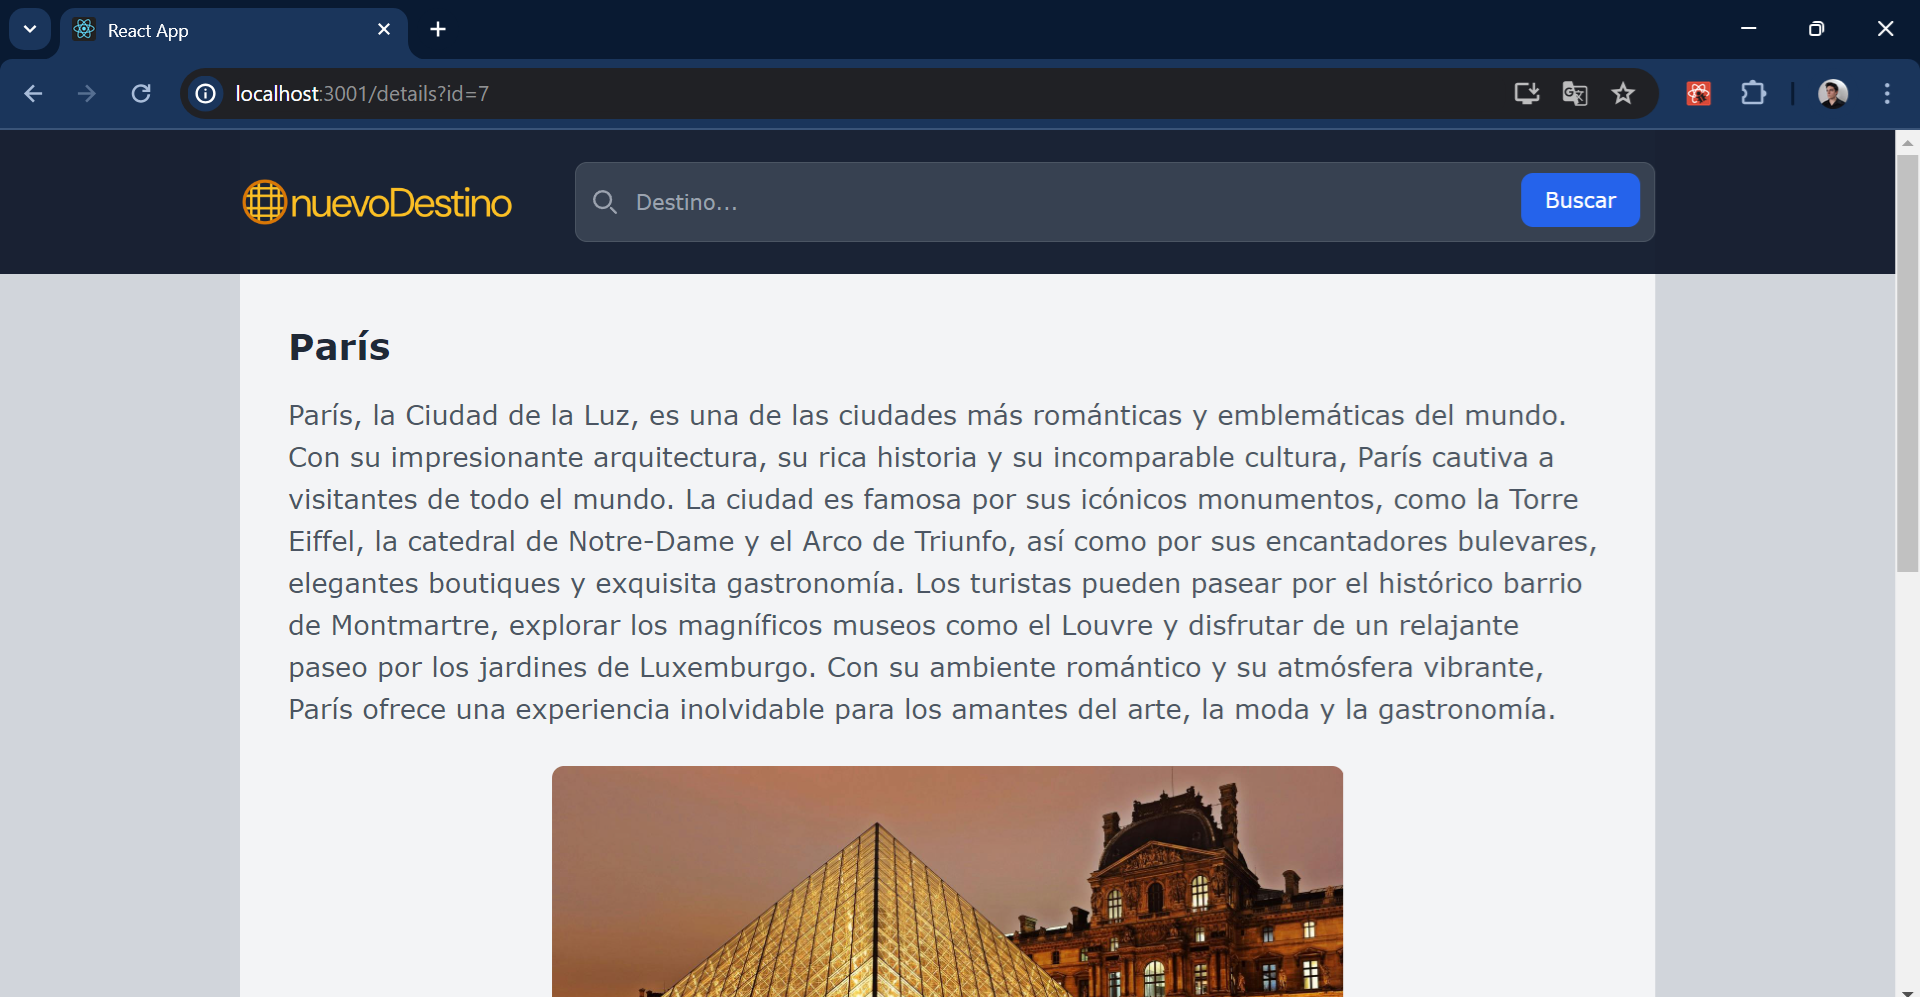
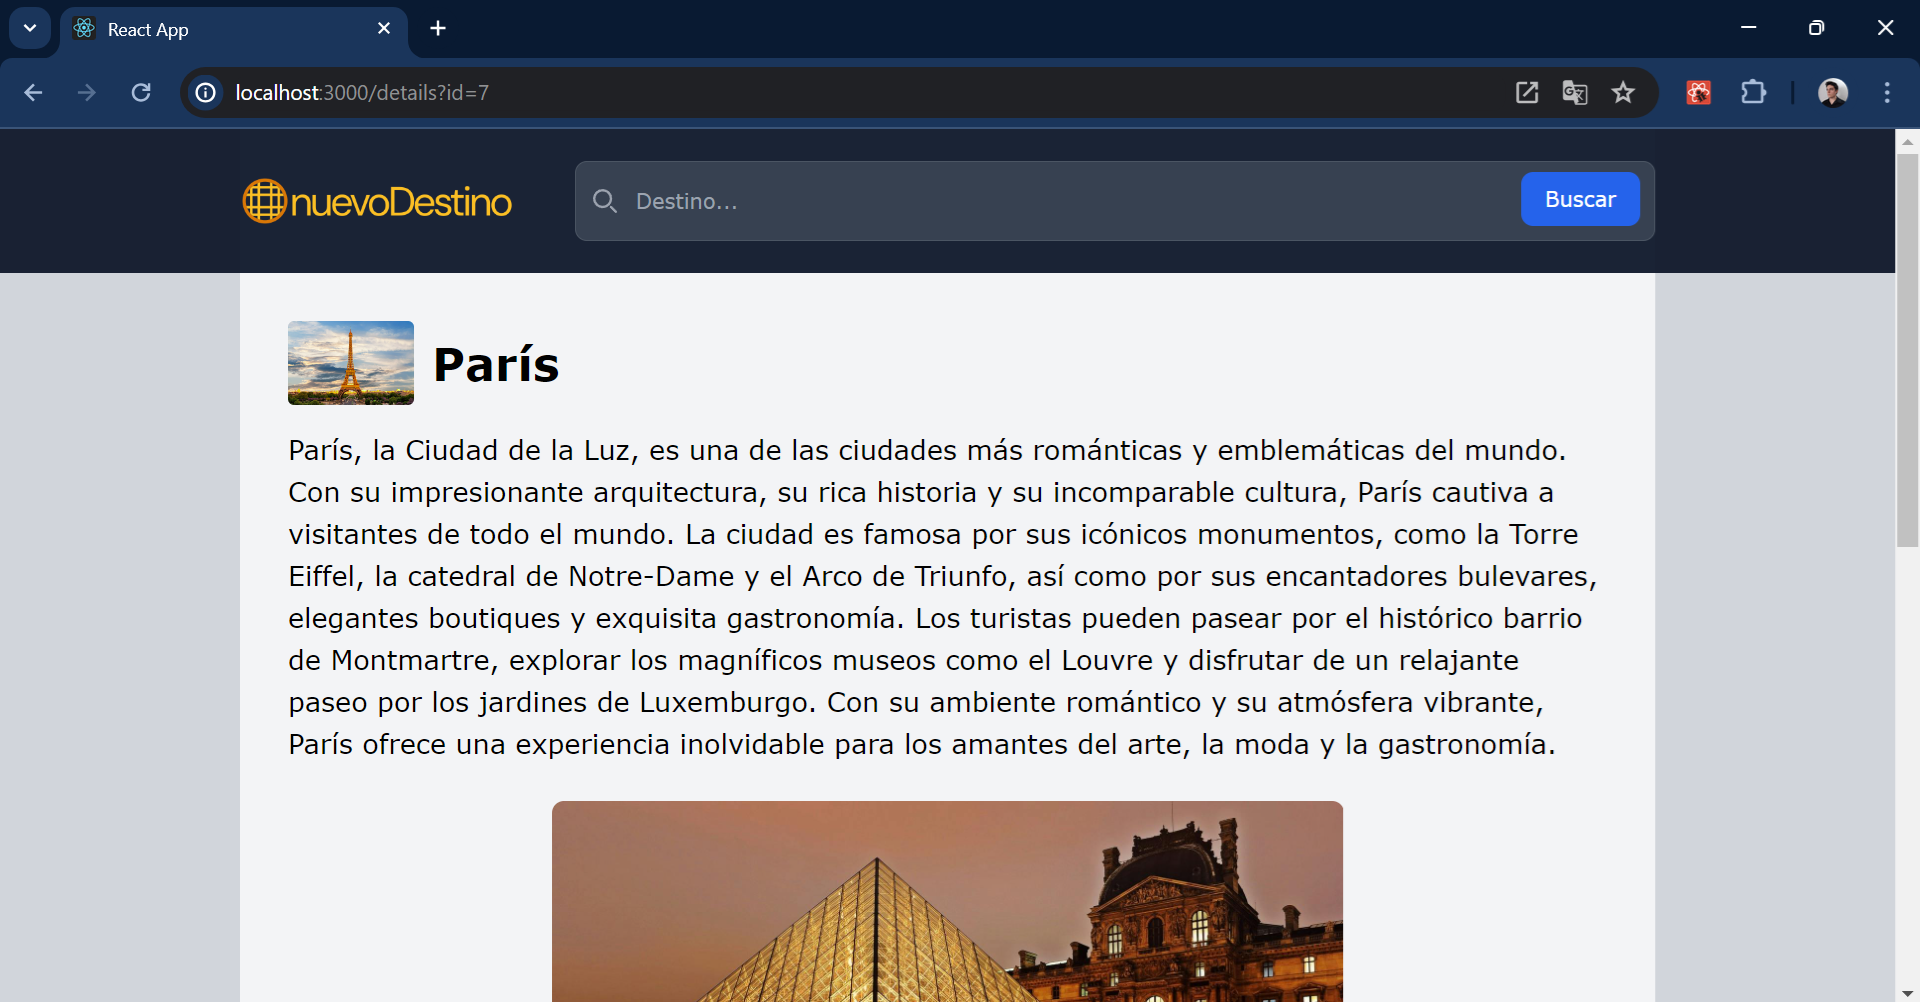
Se agregan pequeños detalles estéticos

diff --git a/src/components/DestinoDetail/DestinoDetail.jsx b/src/components/DestinoDetail/DestinoDetail.jsx
@@ -4,7 +4,6 @@ import "slick-carousel/slick/slick-theme.css";
 import BotonPdfDetalles from "../BotonPdfDetalles/BotonPdfDetalles";
 
 const DestinoDetail = ({ datosDestino }) => {
-
     //Función para dar estilos a la flecha izquierda del carrusel
     function SamplePrevArrow(props) {
         const { className, style, onClick } = props;
@@ -53,14 +52,26 @@ const DestinoDetail = ({ datosDestino }) => {
     return (
         <div className="min-h-screen bg-gray-100 pt-32 mx-40 pb-8 px-4 sm:px-6 lg:px-8">
             <div className="max-w-4xl mx-auto">
-                <h2 className="text-2xl font-bold text-gray-800 mb-4">
-                    {datosDestino.ciudad}
-                </h2>
-                <p className="text-lg text-gray-600 mb-6">{datosDestino.descripcion}</p>
+                <div className="flex mb-4">
+                    <img
+                        src={datosDestino.imagenPrincipal}
+                        alt={`Imagen miniatura`}
+                        className="rounded h-14 mr-3"
+                    />
+                    <h2 className="text-3xl font-bold align-middle text-black my-auto">
+                      {datosDestino.ciudad}
+                    </h2>
+                </div>
+                <p className="text-lg text-black mb-6">
+                    {datosDestino.descripcion}
+                </p>
                 <div className=" w-3/5 content-center mx-auto mb-6">
                     <Slider {...settings}>
                         {datosDestino.imagenes.map((imagen, index) => (
-                            <div key={index} className=" h-min w-min rounded-lg overflow-hidden">
+                            <div
+                                key={index}
+                                className=" h-min w-min rounded-lg overflow-hidden"
+                            >
                                 <img
                                     src={imagen}
                                     alt={`Imagen ${index}`}
@@ -72,20 +83,19 @@ const DestinoDetail = ({ datosDestino }) => {
                 </div>
                 <div className="mt-10 flex justify-between mb-4">
                     <div>
-                      <h3 className="text-xl font-bold mb-2">
-                          Información
-                      </h3>
-                      <p>
-                          <span className="font-bold">Pais:</span>{" "}
-                          {datosDestino.pais}
-                      </p>
-                      <p>
-                          <span className="font-bold">Idioma:</span> {datosDestino.lenguaje}
-                      </p>
-                      <p>
-                          <span className="font-bold">Zona Horaria:</span>{" "}
-                          {datosDestino.zonaHoraria}
-                      </p>
+                        <h3 className="text-xl font-bold mb-2">Información</h3>
+                        <p>
+                            <span className="font-bold">Pais:</span>{" "}
+                            {datosDestino.pais}
+                        </p>
+                        <p>
+                            <span className="font-bold">Idioma:</span>{" "}
+                            {datosDestino.lenguaje}
+                        </p>
+                        <p>
+                            <span className="font-bold">Zona Horaria:</span>{" "}
+                            {datosDestino.zonaHoraria}
+                        </p>
                     </div>
                     <div>
                         <h3 className="text-xl font-bold mb-2">
@@ -99,7 +109,7 @@ const DestinoDetail = ({ datosDestino }) => {
                             ))}
                         </ul>
                     </div>
-                    <BotonPdfDetalles datosDestino={datosDestino}/>
+                    <BotonPdfDetalles datosDestino={datosDestino} />
                 </div>
             </div>
         </div>

diff --git a/src/pages/Details/Details.jsx b/src/pages/Details/Details.jsx
@@ -6,6 +6,11 @@ import Header from "../../components/Header/Header";
 import DestinoDetail from "../../components/DestinoDetail/DestinoDetail";
 
 const Details = () => {
+    const [estadoPagina, setEstadoPagina] = useState(
+        <p className="my-8 p-10 bg-white font-bold text-center text-xl rounded-full">
+            Cargando...
+        </p>
+    );
     const [jsonData, setJsonData] = useState(null);
     const location = useLocation();
 
@@ -26,17 +31,25 @@ const Details = () => {
         fetchData();
     }, [location.search]);
 
+    useEffect(() => {
+        const timeoutId = setTimeout(() => {
+            setEstadoPagina(
+                <p className="my-8 p-10 bg-white text-red-800 font-bold text-center text-xl rounded-full">
+                    La página a la que desea acceder no se encuentra disponible
+                </p>
+            );
+        }, 4000);
+
+        return () => clearTimeout(timeoutId);
+    }, []);
+
     return (
         <div className="h-full bg-gray-300">
             <Header funcionBuscador={null} />
             {jsonData ? (
-                <DestinoDetail datosDestino={jsonData}/>
+                <DestinoDetail datosDestino={jsonData} />
             ) : (
-                <div className="mx-40 pt-32 min-h-svh">
-                    <p className="my-8 p-10 bg-white text-center text-xl rounded-full">
-                        Cargando...
-                    </p>
-                </div>
+                <div className="mx-40 pt-32 min-h-svh">{estadoPagina}</div>
             )}
             <Footer />
         </div>

diff --git a/src/components/DisplayDestinos/DisplayDestinos.jsx b/src/components/DisplayDestinos/DisplayDestinos.jsx
@@ -3,7 +3,7 @@ import CardDestino from "../CardDestino/CardDestino";
 const DisplayDestinos = ({ arregloDestinos }) => {
 
   let contenidoDisplay = 
-  <div className="mx-40 my-8 p-10 bg-white text-center text-xl rounded-full">
+  <div className="mx-40 my-8 p-10 bg-white font-bold text-center text-xl rounded-full">
     <p>Lo sentimos, no hay destinos que coincidan con lo que está buscando</p>
   </div>
 

diff --git a/README.md b/README.md
@@ -23,7 +23,7 @@ Aplicación con Múltiples Páginas
 
 <h3>Descripción de la aplicación</h3>
 
-La aplicación es un sitio web que permite visualizar distintos destinos turísticos en forma de "cards" que al hacerles click nos dirigen hacia otra página donde podemos ver información de este destino de manera más detallada. También permite descargar en forma de pdf la información de cada destino en particular. El sitio además cuenta con un buscador que nos permite hayar más facilemente los destinos a partir del nombre de ciudades o paises.
+La aplicación es un sitio web donde se visualizan distintos destinos turísticos en forma de "cards". Al hacerles click nos dirigen hacia otra página donde podemos ver información de este destino de manera más detallada. Además se puede descargar en forma de pdf la información de cada destino. El sitio también cuenta con un buscador que nos permite hayar más facilemente los destinos a partir del nombre de ciudades o paises.
 
 ---
 <h3>Imágenes de referencia del sitio</h3>
@@ -54,7 +54,7 @@ cd pwa_tp_02_multiples_paginas
 npm install
 ```
 
-4. Ejecutar la aplicación utilizando el comando
+4. Ejecutar la aplicación utilizando el comando:
 
 ```bash
 npm start
